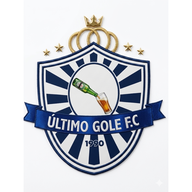
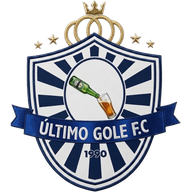
Substitui o escudo pela versão com fundo transparente
Nova imagem enviada pelo clube, recortada nas bordas (448×505). O ícone
do site foi regerado a partir dela. Na página inicial o escudo agora
fica direto sobre o azul-marinho, sem a moldura branca.

Claude-Session: https://claude.ai/code/session_01SWRicZm1LMyzDwFTLsW9of

diff --git a/app/(public)/page.tsx b/app/(public)/page.tsx
@@ -46,9 +46,7 @@ export default async function HomePage() {
           </>
         ) : null}
         <div className="container-page relative flex flex-col items-center gap-8 py-12 text-center md:flex-row md:py-16 md:text-left">
-          <div className="rounded-lg bg-white p-4">
-            <Image src={CREST_PATH} alt={`Escudo do ${SITE_NAME}`} width={448} height={594} priority className="h-40 w-auto md:h-52" />
-          </div>
+          <Image src={CREST_PATH} alt={`Escudo do ${SITE_NAME}`} width={448} height={505} priority className="h-44 w-auto shrink-0 md:h-60" />
           <div className="flex-1">
             <p className="text-xs font-bold uppercase tracking-[0.2em]">Portal oficial</p>
             <h1 className="mt-2 text-4xl uppercase sm:text-5xl lg:text-6xl">{bannerTitle}</h1>

diff --git a/app/(admin)/admin/(painel)/layout.tsx b/app/(admin)/admin/(painel)/layout.tsx
@@ -38,7 +38,7 @@ export default async function AdminLayout({ children }: { children: React.ReactN
     <div className="min-h-screen bg-gray-50 lg:grid lg:grid-cols-[15rem_1fr]">
       <aside className="border-b border-gray-100 bg-white lg:border-b-0 lg:border-r">
         <Link href="/admin" className="flex items-center gap-3 border-b border-gray-100 px-4 py-3">
-          <Image src={CREST_PATH} alt="" width={448} height={594} className="h-10 w-auto" />
+          <Image src={CREST_PATH} alt="" width={448} height={505} className="h-10 w-auto" />
           <span className="font-display text-sm font-extrabold uppercase leading-tight text-primary">
             {SITE_NAME}
             <span className="block text-xs font-semibold text-gray-600">Painel</span>

diff --git a/components/layout/site-header.tsx b/components/layout/site-header.tsx
@@ -8,7 +8,7 @@ export function SiteHeader() {
     <header className="sticky top-0 z-40 bg-white shadow-header">
       <div className="container-page relative flex h-16 items-center justify-between gap-4 lg:h-20">
         <Link href="/" className="flex items-center gap-3" aria-label={`${SITE_NAME} — página inicial`}>
-          <Image src={CREST_PATH} alt="" width={448} height={594} priority className="h-11 w-auto lg:h-14" />
+          <Image src={CREST_PATH} alt="" width={448} height={505} priority className="h-11 w-auto lg:h-14" />
           <span className="font-display text-lg font-extrabold uppercase leading-none text-primary lg:text-xl">{SITE_NAME}</span>
         </Link>
         <SiteNav items={PUBLIC_NAV} />

diff --git a/app/(admin)/admin/login/page.tsx b/app/(admin)/admin/login/page.tsx
@@ -17,7 +17,7 @@ export default async function LoginPage() {
     <main className="flex min-h-screen items-center justify-center bg-gray-50 px-4 py-10">
       <div className="card w-full max-w-sm p-8">
         <div className="mb-6 text-center">
-          <Image src={CREST_PATH} alt={`Escudo do ${SITE_NAME}`} width={448} height={594} priority className="mx-auto h-24 w-auto" />
+          <Image src={CREST_PATH} alt={`Escudo do ${SITE_NAME}`} width={448} height={505} priority className="mx-auto h-24 w-auto" />
           <h1 className="mt-4 text-xl uppercase">Painel administrativo</h1>
           <p className="mt-1 text-sm text-gray-600">{SITE_NAME}</p>
         </div>

diff --git a/components/layout/site-footer.tsx b/components/layout/site-footer.tsx
@@ -19,7 +19,7 @@ export async function SiteFooter() {
       <div className="container-page grid gap-8 py-10 md:grid-cols-[1.2fr_1.5fr_1fr] md:gap-12">
         <div>
           <div className="flex items-center gap-3">
-            <Image src={CREST_PATH} alt="" width={448} height={594} className="h-16 w-auto" />
+            <Image src={CREST_PATH} alt="" width={448} height={505} className="h-16 w-auto" />
             <p className="font-display text-lg font-extrabold uppercase text-primary">{SITE_NAME}</p>
           </div>
           {footerText ? <p className="mt-4 text-sm text-gray-600">{footerText}</p> : null}
